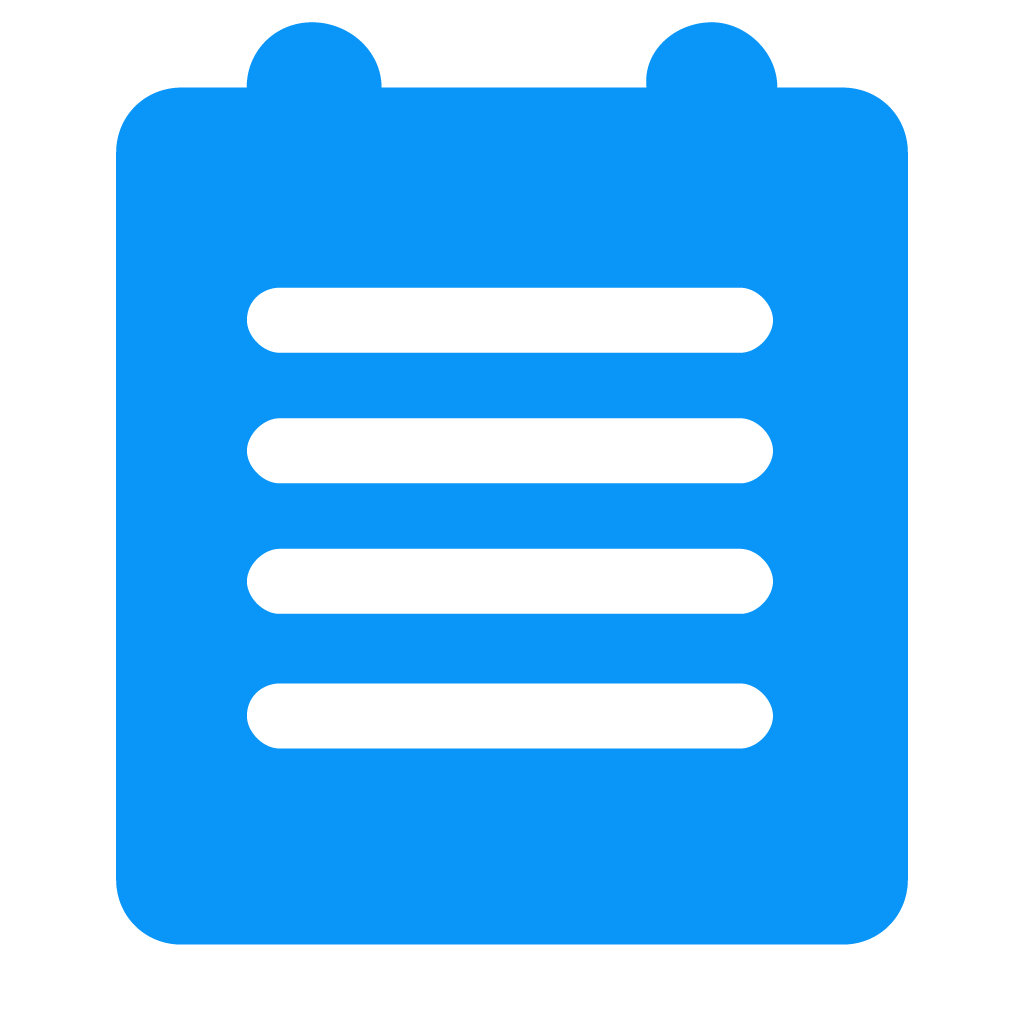
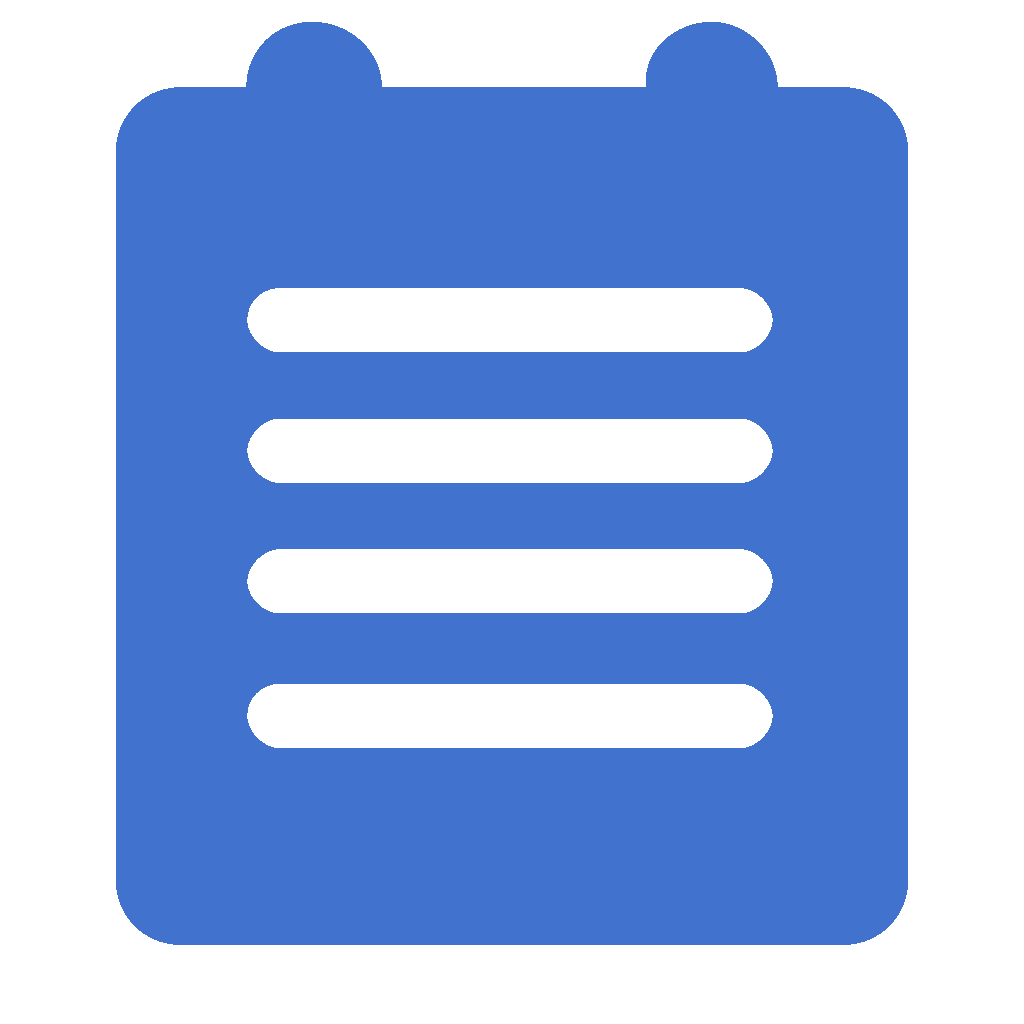
Update login and loading styles

diff --git a/native/app/components/LoginPanel.js b/native/app/components/LoginPanel.js
@@ -1,16 +1,13 @@
 import fxaUtils from '../vendor/fxa-utils';
-import kintoClient from '../vendor/kinto-client';
 import PropTypes from 'prop-types';
 import React from 'react';
-import store from '../store';
-import sync from '../utils/sync';
 import { authenticate } from '../actions';
 import { Button } from 'react-native-paper';
 import { COLOR_NOTES_BLUE } from '../utils/constants';
 import { connect } from 'react-redux';
 import { NavigationActions } from 'react-navigation';
 import { trackEvent } from '../utils/metrics';
-import { View, Text, ToastAndroid, Image } from 'react-native';
+import { View, Text, ToastAndroid, Image, StyleSheet } from 'react-native';
 
 import i18nGetMessage from '../utils/i18n';
 import { KINTO_LOADED } from '../utils/constants';
@@ -25,7 +22,7 @@ class LoginPanel extends React.Component {
     }).then((loginDetails) => {
       trackEvent('login-success');
       this.props.dispatch(authenticate(loginDetails));
-      ToastAndroid.show('Logged in as ' + loginDetails.profile.email, ToastAndroid.SHORT);
+      ToastAndroid.show('Logged in as ' + loginDetails.profile.email, ToastAndroid.LONG);
       browser.runtime.sendMessage({
         action: KINTO_LOADED
       });
@@ -42,7 +39,7 @@ class LoginPanel extends React.Component {
         actions: [NavigationActions.navigate({ routeName: 'LoginPanel' })],
       }));
       console.log('onAuth', err);
-      ToastAndroid.show('Something went wrong: ' + err, ToastAndroid.SHORT);
+      ToastAndroid.show('Something went wrong. ' + err, ToastAndroid.LONG);
       trackEvent('login-failed');
     })
   }
@@ -54,9 +51,9 @@ class LoginPanel extends React.Component {
           style={{width: 150, height: 150 }}
           source={require('../assets/notes-1024.png')}
         />
-        <Text style={{ fontWeight: 'bold', fontSize: 22, padding: 10 }}>{ i18nGetMessage('welcomeTitle3') }</Text>
+        <Text style={{ fontWeight: 'bold', fontSize: 18, padding: 10 }}>{ i18nGetMessage('welcomeTitle3') }</Text>
         <Text style={{ fontSize: 16, padding: 10 }}>Access your Test Pilot Notes</Text>
-        <Button raised onPress={this.onAuth.bind(this)} color={COLOR_NOTES_BLUE}>SIGN IN</Button>
+        <Button raised onPress={this.onAuth.bind(this)} color={COLOR_NOTES_BLUE} style={styles.btnSignin}>SIGN IN</Button>
       </View>
     );
   }
@@ -72,5 +69,16 @@ LoginPanel.propTypes = {
   state: PropTypes.object.isRequired,
   dispatch: PropTypes.func.isRequired
 };
+
+
+const styles = StyleSheet.create({
+  btnSignin: {
+    borderRadius: 25,
+    paddingLeft: 15,
+    paddingRight: 15,
+    paddingTop: 5,
+    paddingBottom: 5
+  },
+});
 
 export default connect(mapStateToProps)(LoginPanel)

diff --git a/native/app/components/LoadingPanel.js b/native/app/components/LoadingPanel.js
@@ -1,7 +1,8 @@
-import React from 'react';
-import { View, Text, ProgressBarAndroid, Image } from 'react-native';
-import { connect } from 'react-redux';
 import PropTypes from 'prop-types';
+import React from 'react';
+import { COLOR_NOTES_BLUE } from '../utils/constants';
+import { connect } from 'react-redux';
+import { View, Text, ProgressBarAndroid, Image } from 'react-native';
 
 class LoadingPanel extends React.Component {
 
@@ -18,7 +19,7 @@ class LoadingPanel extends React.Component {
           source={require('../assets/notes-1024.png')}
         />
         <Text style={{ fontWeight: 'bold', fontSize: 22, padding: 20 }}>Decrypting your notes...</Text>
-        <ProgressBarAndroid styleAttr="Inverse" />
+        <ProgressBarAndroid color={COLOR_NOTES_BLUE} styleAttr="Inverse" />
       </View>
     );
   }
